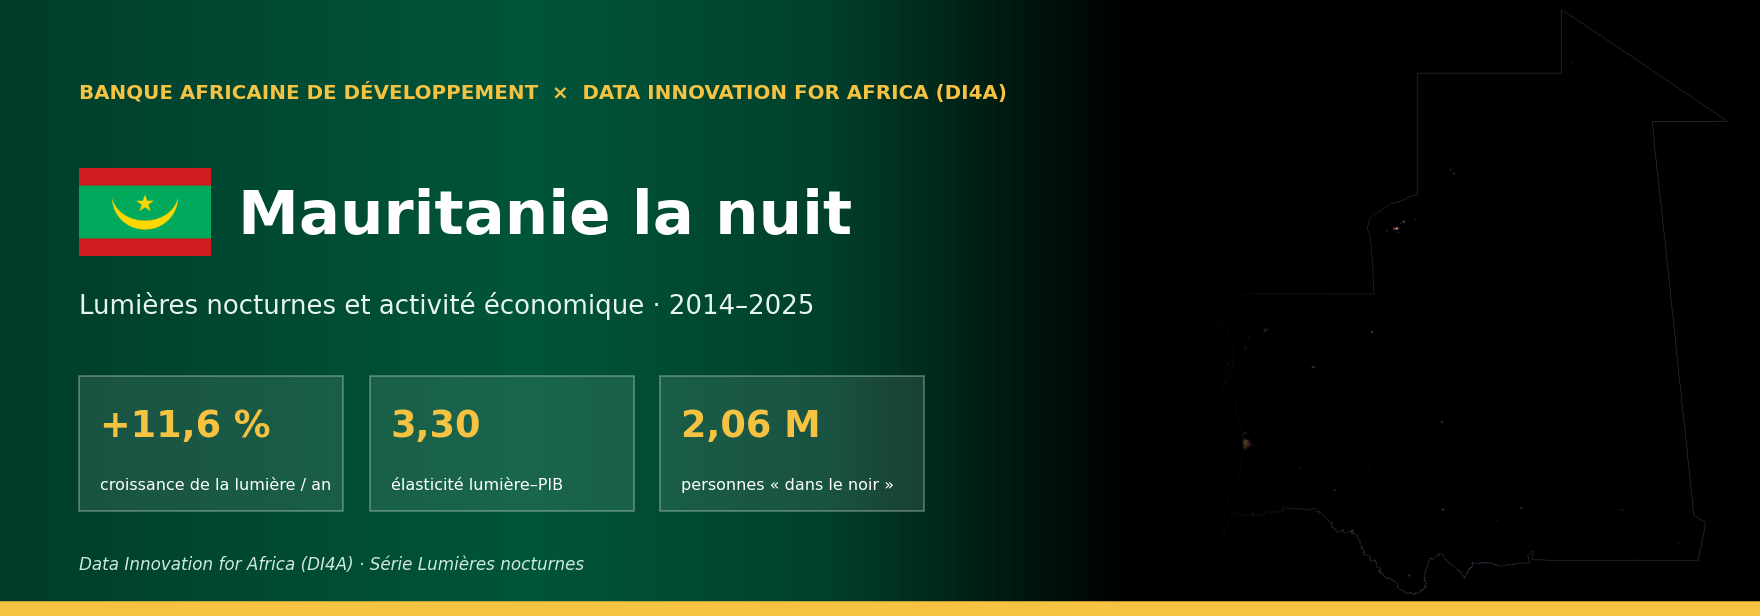
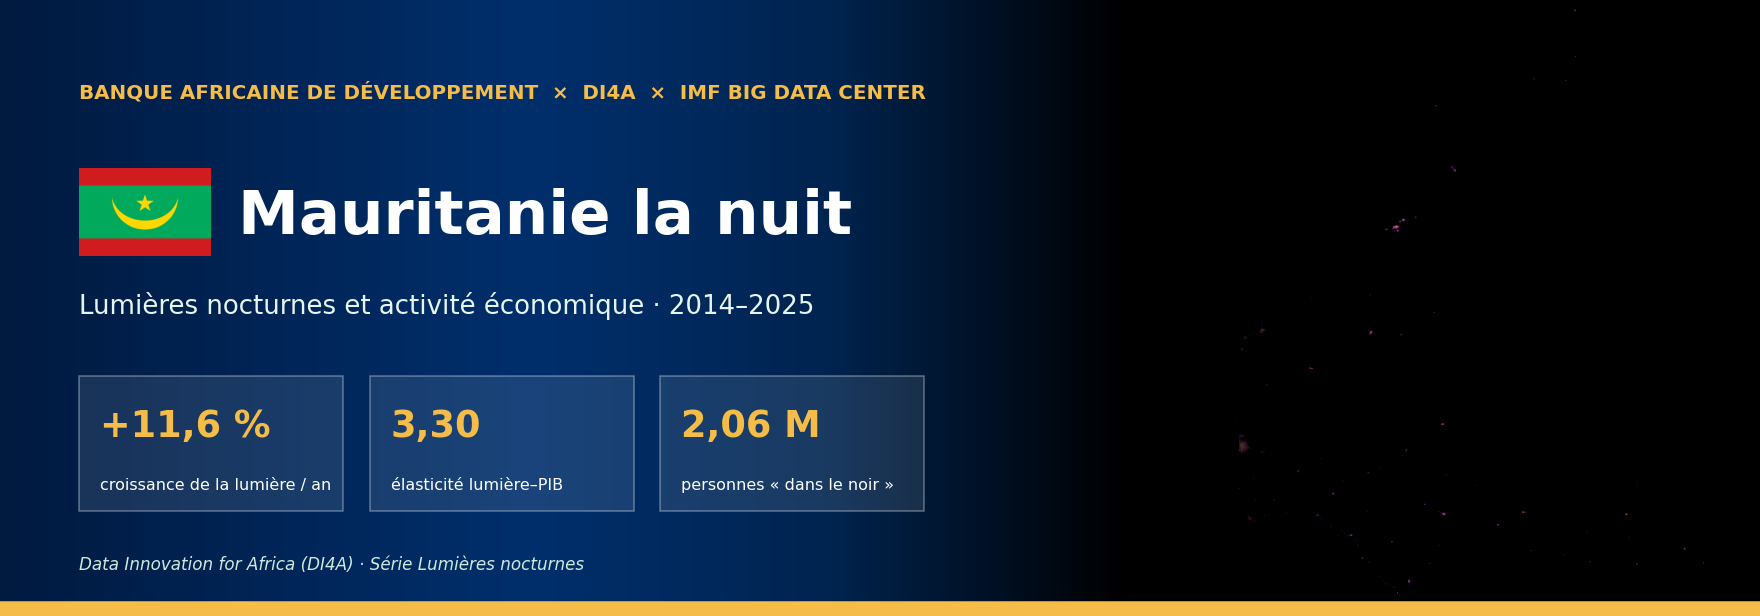
Repository landing page: illustrated README, images, licence

diff --git a/README.fr.md b/README.fr.md
@@ -3,9 +3,9 @@
 
 <p align="center"><a href="https://lamyakejji.github.io/ntl-dashboard/fr/"><img src="docs/img/banner.fr.png" alt="Mauritanie la nuit" width="100%"></a></p>
 
-<p align="center"><b><a href="https://lamyakejji.github.io/ntl-dashboard/fr/">🌍 Tableau de bord</a> &nbsp;·&nbsp; <a href="https://lamyakejji.github.io/ntl-dashboard/fr/#map">🗺 Carte</a> &nbsp;·&nbsp; <a href="https://lamyakejji.github.io/ntl-dashboard/fr/#time">📈 Évolution</a> &nbsp;·&nbsp; <a href="https://lamyakejji.github.io/ntl-dashboard/fr/#industry">🏭 Zones industrielles</a> &nbsp;·&nbsp; <a href="https://lamyakejji.github.io/ntl-dashboard/fr/#method">📐 Méthode</a> &nbsp;·&nbsp; <a href="https://lamyakejji.github.io/ntl-dashboard/fr/#data">⬇ Données</a> &nbsp;·&nbsp; <a href="README.md">🌐 English</a></b></p>
+<p align="center"><b><a href="https://lamyakejji.github.io/ntl-dashboard/fr/">🌍 Tableau de bord</a> &nbsp;·&nbsp; <a href="https://lamyakejji.github.io/ntl-dashboard/fr/#map">🗺 Carte</a> &nbsp;·&nbsp; <a href="https://lamyakejji.github.io/ntl-dashboard/fr/#time">📈 Évolution</a> &nbsp;·&nbsp; <a href="https://lamyakejji.github.io/ntl-dashboard/fr/#grid">⚡ Réseau électrique</a> &nbsp;·&nbsp; <a href="https://lamyakejji.github.io/ntl-dashboard/fr/#outages">🔌 Coupures</a> &nbsp;·&nbsp; <a href="https://lamyakejji.github.io/ntl-dashboard/fr/#method">📐 Méthode</a> &nbsp;·&nbsp; <a href="https://lamyakejji.github.io/ntl-dashboard/fr/#data">⬇ Données</a> &nbsp;·&nbsp; <a href="README.md">🌐 English</a></b></p>
 
-<p align="center"><a href="https://lamyakejji.github.io/ntl-dashboard/fr/"><img alt="Tableau de bord" src="https://img.shields.io/badge/Tableau_de_bord-en_ligne-00704A?style=for-the-badge&logo=githubpages&logoColor=white"></a> <a href="https://lamyakejji.github.io/ntl-dashboard/"><img alt="Dashboard" src="https://img.shields.io/badge/Dashboard-English-3F7FC7?style=for-the-badge"></a> <img alt="period" src="https://img.shields.io/badge/p%C3%A9riode-2014%E2%80%932025-D49A00?style=for-the-badge"> <img alt="data" src="https://img.shields.io/badge/donn%C3%A9es-VIIRS_%C2%B7_GHSL_%C2%B7_Sentinel-231F20?style=for-the-badge"> <img alt="Earth Engine" src="https://img.shields.io/badge/Google-Earth_Engine-4285F4?style=for-the-badge&logo=googleearth&logoColor=white"> <a href="LICENSE"><img alt="licence" src="https://img.shields.io/badge/licence-CC_BY_4.0_%C2%B7_MIT-5E6964?style=for-the-badge"></a></p>
+<p align="center"><a href="https://lamyakejji.github.io/ntl-dashboard/fr/"><img alt="Tableau de bord" src="https://img.shields.io/badge/Tableau_de_bord-en_ligne-004C97?style=for-the-badge&logo=githubpages&logoColor=white"></a> <a href="https://lamyakejji.github.io/ntl-dashboard/"><img alt="Dashboard" src="https://img.shields.io/badge/Dashboard-English-4B82AD?style=for-the-badge"></a> <img alt="period" src="https://img.shields.io/badge/p%C3%A9riode-2014%E2%80%932025-D49A00?style=for-the-badge"> <img alt="data" src="https://img.shields.io/badge/donn%C3%A9es-VIIRS_%C2%B7_GHSL_%C2%B7_Sentinel-231F20?style=for-the-badge"> <img alt="Earth Engine" src="https://img.shields.io/badge/Google-Earth_Engine-4285F4?style=for-the-badge&logo=googleearth&logoColor=white"> <a href="LICENSE"><img alt="licence" src="https://img.shields.io/badge/licence-CC_BY_4.0_%C2%B7_MIT-5E6964?style=for-the-badge"></a></p>
 
 > [!NOTE]
 > Ce dépôt héberge le **tableau de bord public** de l'activité économique de **Mauritanie** mesurée par les lumières nocturnes vues par satellite (2014–2025). Le site est bilingue (français / anglais), entièrement statique et régénéré à chaque exécution du notebook.
@@ -25,7 +25,7 @@
 </tr>
 </table>
 
-<p align="center"><a href="https://lamyakejji.github.io/ntl-dashboard/fr/"><img alt="Ouvrir le tableau de bord" src="https://img.shields.io/badge/%E2%9E%9C-Ouvrir_le_tableau_de_bord-00704A?style=for-the-badge"></a></p>
+<p align="center"><a href="https://lamyakejji.github.io/ntl-dashboard/fr/"><img alt="Ouvrir le tableau de bord" src="https://img.shields.io/badge/%E2%9E%9C-Ouvrir_le_tableau_de_bord-004C97?style=for-the-badge"></a></p>
 
 ## 💡 Messages clés
 
@@ -37,40 +37,30 @@
    <sub>🔴 faible · β = −0,009 [−0,023 ; 0,006], n = 52</sub>
 4. **Lien avec le PIB** — L'élasticité de la lumière au PIB réel est de 3,30 en niveaux (IC 95 % : 2,80 à 3,79, R² = 0,97, 12 années) et de 1,68 en taux de croissance (IC : −0,03 à 3,39). En pseudo temps réel (chaque année prédite à partir des seules années antérieures), la croissance de la lumière suit celle du PIB avec une corrélation de 0,33 (erreur absolue moyenne : 2,5 point(s) de croissance, pas mieux que la meilleure prévision naïve, rapport d'erreur 1,14).  
    <sub>🟠 moyenne · relation nette mais seulement 12 années</sub>
-5. **Chocs** — Le choc le plus marqué dans la série désaisonnalisée est « COVID-19 » : creux de -26,5 % (06/2020), retour au niveau d'avant-choc après 5 mois.  
-   <sub>🟠 moyenne · creux comparé à la variabilité mensuelle d'avant-choc</sub>
-6. **Inégalités et accès** — Le Gini de la lumière par habitant (ADM2) vaut 0,69 en 2025 (évolution non significative depuis 2014). Environ 2,06 million(s) de personnes vivent dans des zones habitées sans lumière détectable (41 % de la population habitée).  
+5. **Inégalités et accès** — Le Gini de la lumière par habitant (ADM2) vaut 0,69 en 2025 (évolution non significative depuis 2014). Environ 2,06 million(s) de personnes vivent dans des zones habitées sans lumière détectable (41 % de la population habitée).  
    <sub>🟠 moyenne · sensible au seuil de radiance (de 0,00 à 2,37 M selon le seuil) ; proxy d'éclairage extérieur, pas de raccordement</sub>
-7. **Zones industrielles** — 7 zones industrielles candidates sont détectées (3 pôles majeurs, 0 sites énergétiques), sur 5 km². Elles émettent 1 % de la lumière nationale ; la première est Nouadhibou (Dakhlet Nouadhibou). Leur lumière évolue de +6,3 % par an.  
-   <sub>🟠 moyenne · 100 % des zones confirmées par OpenStreetMap ; candidats à vérifier</sub>
+6. **Réseau électrique** — Le réseau électrique cartographié (OpenStreetMap) totalise 2 813 km de lignes. Entre 2014 et 2025, la lumière des villes à moins de 15 km d'une ligne de transport a varié de +204 %, contre +867 % au-delà de 50 km (descriptif : les lignes OSM ne sont pas datées).  
+   <sub>low · couverture OSM variable, lignes non datées</sub>
+7. **Bâti sans lumière** — En 2020, la part du bâti (GHSL) sans lumière détectable est la plus élevée à Barkéol 79%, Maghama 72%, Tintane 68% : l'expansion urbaine y devance le service électrique.  
+   <sub>medium · le halo lumineux sous-estime cette part dans les grandes villes</sub>
+8. **Effet des investissements** — Études d'événements (villes traitées vs jamais traitées) — Raccordement haute tension (2 villes) : -0,49 points log, p bootstrap = 0,20; Renforcement de la production (9 villes) : +0,08 points log, p bootstrap = 0,80.  
+   <sub>low · peu de villes traitées ; dates d'événements de confiance moyenne/faible</sub>
+9. **Coupures d'électricité** — À Nouakchott, 1,0 % des nuits claires de 2026 (jusqu'au 26/10) montrent une baisse de lumière à l'échelle de la ville compatible avec une coupure (contre 1,0 % en 2014). L'épisode le plus marqué débute le 11/06/2021 : lumière à 9 % de la normale, 96 % des pixels assombris.  
+   <sub>medium · un passage satellite par nuit (≈ 01 h 30) : coupures de jour invisibles ; 2/4 épisodes documentés observables détectés</sub>
+10. **Presse et coupures** — 246 articles de presse en ligne (FR, AR, EN) traitent de coupures à Nouakchott ; 63 % ont un ton négatif. Le pic de couverture est en 08/2026 (42 articles). Thèmes économiques les plus cités : Generation capacity & demand, Investment & finance, Heat & air conditioning, Water supply.  
+   <sub>low · couverture en ligne inégale dans le temps ; ton estimé par un modèle</sub>
 
-## 🛰 Le jour et la nuit
+## 🌃 Ce qui a changé
 
-<p align="center"><img src="docs/img/daynight.png" alt="Le jour et la nuit" width="100%"></p>
+<p align="center"><img src="docs/img/compare.png" alt="Ce qui a changé" width="85%"></p>
 
-Le principal pôle économique du pays (Ksar (Nouakchott)), le jour vu par Sentinel-2 et la nuit vu par VIIRS. Ce que le satellite voit la nuit — l'éclairage des villes, des ports, des usines et des routes — est l'indicateur indirect d'activité utilisé dans tout ce projet.
+Composites annuels VIIRS VNL V2 (torchères masquées), même échelle logarithmique : à gauche 2014, à droite 2025.
 
 ## 📈 La tendance
 
 <p align="center"><img src="docs/img/series.png" alt="series" width="100%"></p>
 
 La courbe désaisonnalisée retire les effets de saison (neige, végétation, fêtes) : c'est elle qu'il faut lire pour juger d'une hausse ou d'une baisse.
-
-## 🏭 Zones industrielles
-
-<p align="center"><img src="docs/img/industry.png" alt="industry" width="80%"></p>
-
-Les sites industriels brillent la nuit comme les villes, mais leurs bâtiments sont surtout non résidentiels, peu de gens y habitent et ils émettent du NO₂. En combinant VIIRS, GHSL (bâti non résidentiel, population) et Sentinel-5P, **7 zones candidates** sont détectées ; elles émettent **1 %** de la lumière nationale. 100 % d'entre elles contiennent une zone industrielle répertoriée dans OpenStreetMap (± 1 km).
-
-| # | Zone | Type | Surface | Part de la lumière nationale | Croissance / an |
-|---:|---|---|---:|---:|---:|
-| 1 | Nouadhibou (Dakhlet Nouadhibou) | Pôle industriel majeur | 1,8 km² | 0,3 % | +4,3 % |
-| 2 | Zoueratt (Tiris Zemmour) | Pôle industriel majeur | 0,8 km² | 0,1 % | +0,1 % |
-| 3 | Ouad Naga (Trarza) | Pôle industriel majeur | 0,6 km² | 0,1 % | +1,7 % |
-| 4 | El Mina (Nouakchott) | Zone industrielle / logistique | 0,4 km² | 0,1 % | +8,9 % |
-| 5 | El Mina (Nouakchott) | Zone industrielle / logistique | 0,4 km² | 0,1 % | +12,3 % |
-| 6 | El Mina (Nouakchott) | Zone industrielle / logistique | 0,6 km² | 0,1 % | +6,9 % |
-| 7 | El Mina (Nouakchott) | Zone industrielle / logistique | 0,6 km² | 0,1 % | +7,5 % |
 
 ## 🧭 Ce que contient le tableau de bord
 
@@ -80,9 +70,9 @@ Les sites industriels brillent la nuit comme les villes, mais leurs bâtiments s
 | [**Carte**](https://lamyakejji.github.io/ntl-dashboard/fr/#map) | lumière année par année, variation, statistiques régionales au survol |
 | [**Évolution**](https://lamyakejji.github.io/ntl-dashboard/fr/#time) | série mensuelle observée et désaisonnalisée, glissement annuel, série longue 1992 → |
 | [**Régions**](https://lamyakejji.github.io/ntl-dashboard/fr/#regions) | croissance par région et district, classes, concentration et convergence |
-| [**Chocs**](https://lamyakejji.github.io/ntl-dashboard/fr/#shocks) | COVID-19 et autres événements : creux, reprise, test placebo, indice quotidien |
+| [**Réseau électrique**](https://lamyakejji.github.io/ntl-dashboard/fr/#grid) | lignes OpenStreetMap, événements datés et sourcés, distance au réseau, bâti dans le noir, études d'événements |
 | [**Inégalités**](https://lamyakejji.github.io/ntl-dashboard/fr/#inequality) | Gini, courbes de Lorenz, Theil, population « dans le noir » |
-| [**Zones industrielles**](https://lamyakejji.github.io/ntl-dashboard/fr/#industry) | zones candidates, score, tendance, validation OpenStreetMap |
+| [**Coupures d'électricité**](https://lamyakejji.github.io/ntl-dashboard/fr/#outages) | coupures nuit après nuit (Black Marble quotidien), épisodes, presse : tonalité et vocabulaire économique |
 | [**Méthode & limites**](https://lamyakejji.github.io/ntl-dashboard/fr/#method) | sources, paramètres, hypothèses et biais connus |
 | [**Données**](https://lamyakejji.github.io/ntl-dashboard/fr/#data) | toutes les tables téléchargeables, manifeste de reproductibilité |
 
@@ -95,14 +85,14 @@ flowchart LR
     A["🛰 VIIRS DNB mensuel<br/>et annuel (VNL V2)"] --> B["🧹 Nettoyage<br/>nuages · torchères · fond"]
     B --> C["🗺 Statistiques zonales<br/>pays · régions · districts"]
     P["👥 GHSL population<br/>🏭 bâti non résidentiel<br/>💨 Sentinel-5P NO₂"] --> C
-    C --> D["📈 Séries, tendances,<br/>chocs, ruptures"]
+    C --> D["📈 Séries, tendances,<br/>ruptures"]
     C --> E["⚖ Inégalités,<br/>population dans le noir"]
-    C --> F["🏭 Zones industrielles"]
+    R["⚡ Réseau OSM<br/>🛰 Black Marble quotidien<br/>📰 presse"] --> F["🔌 Réseau et coupures"]
     W["🏦 Banque mondiale<br/>PIB · accès électricité"] --> G["💹 Élasticité<br/>lumière–PIB"]
     C --> G
     D & E & F & G --> H["🌍 Tableau de bord bilingue<br/>GitHub Pages"]
-    classDef default fill:#E8F5EF,stroke:#00704A,color:#231F20;
-    class H fill:#00704A,color:#fff,stroke:#F5C242
+    classDef default fill:#EAF2FB,stroke:#004C97,color:#231F20;
+    class H fill:#004C97,color:#fff,stroke:#F5BD47
 ```
 
 <details>
@@ -114,9 +104,9 @@ flowchart LR
 | **📈 Dynamique temporelle** | décomposition STL, glissement annuel, tendance de Theil–Sen et test de Mann–Kendall, anomalies, ruptures |
 | **🗺 Croissance régionale** | classes Croissance / Stagnation / Déclin (correction de Benjamini–Hochberg), HHI, convergence β et σ |
 | **💹 Lumières et PIB** | élasticité (erreurs HAC, bootstrap), prévision immédiate jugée face à deux prévisions naïves, PIB régional expérimental |
-| **⚡ Chocs** | creux, écart à la tendance, mois de reprise, test placebo, indice quotidien Black Marble |
+| **⚡ Réseau électrique** | lignes OSM, événements datés, distance au réseau, bâti dans le noir, études d'événements (bootstrap sauvage) |
 | **⚖ Inégalités et accès** | Gini, Theil (entre / intra-régions), ratio urbain / rural, population dans le noir sur trois seuils |
-| **🏭 Zones industrielles** | score à quatre signaux (lumière, bâti non résidentiel, faible densité, NO₂), validation OpenStreetMap |
+| **🔌 Coupures** | Black Marble quotidien : % de la normale, pixels assombris, épisodes ponctuels / prolongés, presse et vocabulaire économique |
 
 </details>
 
@@ -140,9 +130,9 @@ flowchart LR
 | [`annual_units.csv`](https://lamyakejji.github.io/ntl-dashboard/fr/data/MRT/annual_units.csv) | une ligne par unité et par année : lumière, population, lumière/hab., population dans le noir |
 | [`regions.csv`](https://lamyakejji.github.io/ntl-dashboard/fr/data/MRT/regions.csv) | indicateurs de la dernière année par région et district (carte, classement) |
 | [`gdp.json`](https://lamyakejji.github.io/ntl-dashboard/fr/data/MRT/gdp.json) | élasticité lumière–PIB, prévision immédiate, PIB régional expérimental |
-| [`shocks.json`](https://lamyakejji.github.io/ntl-dashboard/fr/data/MRT/shocks.json) | événements, creux, reprise, ruptures, anomalies, indices quotidiens |
+| [`grid.json`](https://lamyakejji.github.io/ntl-dashboard/fr/data/MRT/grid.json) | réseau : événements datés, villes, distance au réseau, études d'événements |
 | [`inequality.json`](https://lamyakejji.github.io/ntl-dashboard/fr/data/MRT/inequality.json) | Gini, Lorenz, Theil, population dans le noir et sensibilité aux seuils |
-| [`industrial.geojson`](https://lamyakejji.github.io/ntl-dashboard/fr/data/MRT/industrial.geojson) | zones industrielles candidates (géométries et indicateurs) |
+| [`outages.json`](https://lamyakejji.github.io/ntl-dashboard/fr/data/MRT/outages.json) | indice nocturne de coupures, épisodes, taux annuels et mensuels ; news.json : presse |
 | [`meta.json`](https://lamyakejji.github.io/ntl-dashboard/fr/data/MRT/meta.json) | paramètres, versions des logiciels, disponibilité des données : la reproductibilité |
 
 📁 [`gh-pages/data/MRT/`](https://github.com/lamyakejji/ntl-dashboard/tree/gh-pages/data/MRT)
@@ -170,7 +160,7 @@ Le site est produit par le notebook **Lumières nocturnes et activité économiq
 
 ## 🤝 Crédits et citation
 
-Réalisé par la **Banque africaine de développement** dans le cadre de **Data Innovation for Africa (DI4A)**. Les estimations sont expérimentales et ne constituent pas des statistiques officielles.
+Réalisé par la **Banque africaine de développement** dans le cadre de **Data Innovation for Africa (DI4A)**, avec l'**IMF Big Data Center**. *Avertissement : les opinions exprimées sont celles des auteurs et ne reflètent pas nécessairement celles du FMI, de son Conseil d'administration ou de sa direction.* Les estimations sont expérimentales et ne constituent pas des statistiques officielles.
 
 **Licence** — contenus CC BY 4.0, code MIT (voir `LICENSE`). Toute réutilisation doit mentionner : **Source : Banque africaine de développement – Data Innovation for Africa (AfDB-DI4A)**.
 
@@ -180,5 +170,5 @@ Réalisé par la **Banque africaine de développement** dans le cadre de **Data 
 
 ---
 
-<p align="center"><sub>© 2026 AfDB-DI4A · Toute réutilisation doit mentionner « Source : AfDB-DI4A »</sub></p>
-<p align="center"><sub>Dernière mise à jour : 2026-11-01 · <a href="#top">↑</a></sub></p>
+<p align="center"><sub>© 2026 AfDB-DI4A · avec l'IMF Big Data Center · Toute réutilisation doit mentionner « Source : AfDB-DI4A » · Les opinions exprimées ne reflètent pas nécessairement celles du FMI</sub></p>
+<p align="center"><sub>Dernière mise à jour : 2026-11-02 · <a href="#top">↑</a></sub></p>

diff --git a/README.md b/README.md
@@ -3,9 +3,9 @@
 
 <p align="center"><a href="https://lamyakejji.github.io/ntl-dashboard/"><img src="docs/img/banner.png" alt="Mauritania at night" width="100%"></a></p>
 
-<p align="center"><b><a href="https://lamyakejji.github.io/ntl-dashboard/">🌍 Dashboard</a> &nbsp;·&nbsp; <a href="https://lamyakejji.github.io/ntl-dashboard/#map">🗺 Map</a> &nbsp;·&nbsp; <a href="https://lamyakejji.github.io/ntl-dashboard/#time">📈 Trends</a> &nbsp;·&nbsp; <a href="https://lamyakejji.github.io/ntl-dashboard/#industry">🏭 Industrial zones</a> &nbsp;·&nbsp; <a href="https://lamyakejji.github.io/ntl-dashboard/#method">📐 Method</a> &nbsp;·&nbsp; <a href="https://lamyakejji.github.io/ntl-dashboard/#data">⬇ Data</a> &nbsp;·&nbsp; <a href="README.fr.md">🌐 Français</a></b></p>
+<p align="center"><b><a href="https://lamyakejji.github.io/ntl-dashboard/">🌍 Dashboard</a> &nbsp;·&nbsp; <a href="https://lamyakejji.github.io/ntl-dashboard/#map">🗺 Map</a> &nbsp;·&nbsp; <a href="https://lamyakejji.github.io/ntl-dashboard/#time">📈 Trends</a> &nbsp;·&nbsp; <a href="https://lamyakejji.github.io/ntl-dashboard/#grid">⚡ Electricity grid</a> &nbsp;·&nbsp; <a href="https://lamyakejji.github.io/ntl-dashboard/#outages">🔌 Power outages</a> &nbsp;·&nbsp; <a href="https://lamyakejji.github.io/ntl-dashboard/#method">📐 Method</a> &nbsp;·&nbsp; <a href="https://lamyakejji.github.io/ntl-dashboard/#data">⬇ Data</a> &nbsp;·&nbsp; <a href="README.fr.md">🌐 Français</a></b></p>
 
-<p align="center"><a href="https://lamyakejji.github.io/ntl-dashboard/"><img alt="Dashboard" src="https://img.shields.io/badge/Dashboard-live-00704A?style=for-the-badge&logo=githubpages&logoColor=white"></a> <a href="https://lamyakejji.github.io/ntl-dashboard/fr/"><img alt="Tableau de bord" src="https://img.shields.io/badge/Tableau_de_bord-fran%C3%A7ais-3F7FC7?style=for-the-badge"></a> <img alt="period" src="https://img.shields.io/badge/period-2014%E2%80%932025-D49A00?style=for-the-badge"> <img alt="data" src="https://img.shields.io/badge/data-VIIRS_%C2%B7_GHSL_%C2%B7_Sentinel-231F20?style=for-the-badge"> <img alt="Earth Engine" src="https://img.shields.io/badge/Google-Earth_Engine-4285F4?style=for-the-badge&logo=googleearth&logoColor=white"> <a href="LICENSE"><img alt="licence" src="https://img.shields.io/badge/licence-CC_BY_4.0_%C2%B7_MIT-5E6964?style=for-the-badge"></a></p>
+<p align="center"><a href="https://lamyakejji.github.io/ntl-dashboard/"><img alt="Dashboard" src="https://img.shields.io/badge/Dashboard-live-004C97?style=for-the-badge&logo=githubpages&logoColor=white"></a> <a href="https://lamyakejji.github.io/ntl-dashboard/fr/"><img alt="Tableau de bord" src="https://img.shields.io/badge/Tableau_de_bord-fran%C3%A7ais-4B82AD?style=for-the-badge"></a> <img alt="period" src="https://img.shields.io/badge/period-2014%E2%80%932025-D49A00?style=for-the-badge"> <img alt="data" src="https://img.shields.io/badge/data-VIIRS_%C2%B7_GHSL_%C2%B7_Sentinel-231F20?style=for-the-badge"> <img alt="Earth Engine" src="https://img.shields.io/badge/Google-Earth_Engine-4285F4?style=for-the-badge&logo=googleearth&logoColor=white"> <a href="LICENSE"><img alt="licence" src="https://img.shields.io/badge/licence-CC_BY_4.0_%C2%B7_MIT-5E6964?style=for-the-badge"></a></p>
 
 > [!NOTE]
 > This repository hosts the **public dashboard** of economic activity in **Mauritania** measured with night-time lights seen from space (2014–2025). The site is bilingual (English / French), fully static and regenerated each time the notebook runs.
@@ -25,7 +25,7 @@
 </tr>
 </table>
 
-<p align="center"><a href="https://lamyakejji.github.io/ntl-dashboard/"><img alt="Open the dashboard" src="https://img.shields.io/badge/%E2%9E%9C-Open_the_dashboard-00704A?style=for-the-badge"></a></p>
+<p align="center"><a href="https://lamyakejji.github.io/ntl-dashboard/"><img alt="Open the dashboard" src="https://img.shields.io/badge/%E2%9E%9C-Open_the_dashboard-004C97?style=for-the-badge"></a></p>
 
 ## 💡 Key messages
 
@@ -37,40 +37,30 @@
    <sub>🔴 low · β = −0.009 [−0.023; 0.006], n = 52</sub>
 4. **Link with GDP** — The elasticity of light with respect to real GDP is 3.30 in levels (95% CI: 2.80 to 3.79, R² = 0.97, 12 years) and 1.68 in growth rates (CI: −0.03 to 3.39). In pseudo-real time (each year predicted from earlier years only), light growth tracks GDP growth with a correlation of 0.33 (mean absolute error: 2.5 percentage points of growth, no better than the best naive forecast, error ratio 1.14).  
    <sub>🟠 medium · clear relationship but only 12 years</sub>
-5. **Shocks** — The most pronounced shock in the seasonally adjusted series is “COVID-19”: trough of -26.5% (06/2020), return to the pre-shock level after 5 months.  
-   <sub>🟠 medium · trough compared with pre-shock month-to-month variability</sub>
-6. **Inequality and access** — The Gini coefficient of light per capita (ADM2) is 0.69 in 2025 (no significant change since 2014). About 2.06 million people live in inhabited areas with no detectable light (41% of the inhabited population).  
+5. **Inequality and access** — The Gini coefficient of light per capita (ADM2) is 0.69 in 2025 (no significant change since 2014). About 2.06 million people live in inhabited areas with no detectable light (41% of the inhabited population).  
    <sub>🟠 medium · sensitive to the radiance threshold (from 0.00 to 2.37 M depending on the threshold); a proxy for outdoor lighting, not for grid connection</sub>
-7. **Industrial zones** — 7 candidate industrial zones are detected (3 major hubs, 0 energy sites), covering 5 km². They emit 1% of national light; the largest is Nouadhibou (Dakhlet Nouadhibou). Their light changes by +6.3% per year.  
-   <sub>🟠 medium · 100% of zones confirmed by OpenStreetMap; candidates to be checked</sub>
+6. **Electricity grid** — The mapped grid (OpenStreetMap) totals 2,813 km of line. Between 2014 and 2025, light in towns within 15 km of a transmission line changed by +204%, against +867% beyond 50 km (descriptive: OSM lines carry no dates).  
+   <sub>🔴 low · OSM coverage varies, lines are undated</sub>
+7. **Built-up land left dark** — In 2020, the share of built-up land (GHSL) with no detectable light is highest in Barkéol 79%, Maghama 72%, Tintane 68%: urban expansion runs ahead of electricity service there.  
+   <sub>🟠 medium · blooming understates this share in large cities</sub>
+8. **Effect of grid investments** — Event studies (treated vs never-treated towns) — HV connection (2 towns): -0.49 log points, wild-bootstrap p = 0.20; Generation upgrade (9 towns): +0.08 log points, wild-bootstrap p = 0.80.  
+   <sub>🔴 low · few treated towns; event dates of medium/low confidence</sub>
+9. **Power outages** — In Nouakchott, 1.0% of clear nights in 2026 (to 26 Oct) show a citywide drop in light consistent with a power outage (against 1.0% in 2014). The deepest episode starts on 11 Jun 2021: light at 9% of normal, 96% of pixels dimmed.  
+   <sub>🟠 medium · one satellite pass per night (≈01:30): daytime cuts are invisible; 2/4 observable documented episodes detected</sub>
+10. **News on outages** — 246 online news articles (FR, AR, EN) cover power cuts in Nouakchott; 63% are negative in tone. Coverage peaks in Aug 2026 (42 articles). Most-cited economic themes: Generation capacity & demand, Investment & finance, Heat & air conditioning, Water supply.  
+   <sub>🔴 low · uneven online coverage over time; tone estimated by a model</sub>
 
-## 🛰 Day and night
+## 🌃 What changed
 
-<p align="center"><img src="docs/img/daynight.png" alt="Day and night" width="100%"></p>
+<p align="center"><img src="docs/img/compare.png" alt="What changed" width="85%"></p>
 
-The country's main economic pole (Ksar (Nouakchott)), by day as seen by Sentinel-2 and by night as seen by VIIRS. What the satellite sees at night — the lighting of cities, ports, factories and roads — is the proxy of activity used throughout this project.
+VIIRS VNL V2 annual composites (gas flares masked), same logarithmic scale: left 2014, right 2025.
 
 ## 📈 The trend
 
 <p align="center"><img src="docs/img/series.png" alt="series" width="100%"></p>
 
 The seasonally adjusted curve removes seasonal effects (snow, vegetation, festivities): read it to judge a rise or a fall.
-
-## 🏭 Industrial zones
-
-<p align="center"><img src="docs/img/industry.png" alt="industry" width="80%"></p>
-
-Industrial sites shine at night like towns, but their buildings are mostly non-residential, few people live there and they emit NO₂. Combining VIIRS, GHSL (non-residential built-up, population) and Sentinel-5P, **7 candidate zones** are detected; they emit **1%** of national light. 100% of them contain an industrial area mapped in OpenStreetMap (± 1 km).
-
-| # | Zone | Type | Area | Share of national light | Growth / yr |
-|---:|---|---|---:|---:|---:|
-| 1 | Nouadhibou (Dakhlet Nouadhibou) | Major industrial hub | 1.8 km² | 0.3% | +4.3% |
-| 2 | Zoueratt (Tiris Zemmour) | Major industrial hub | 0.8 km² | 0.1% | +0.1% |
-| 3 | Ouad Naga (Trarza) | Major industrial hub | 0.6 km² | 0.1% | +1.7% |
-| 4 | El Mina (Nouakchott) | Industrial / logistics zone | 0.4 km² | 0.1% | +8.9% |
-| 5 | El Mina (Nouakchott) | Industrial / logistics zone | 0.4 km² | 0.1% | +12.3% |
-| 6 | El Mina (Nouakchott) | Industrial / logistics zone | 0.6 km² | 0.1% | +6.9% |
-| 7 | El Mina (Nouakchott) | Industrial / logistics zone | 0.6 km² | 0.1% | +7.5% |
 
 ## 🧭 What the dashboard contains
 
@@ -80,9 +70,9 @@ Industrial sites shine at night like towns, but their buildings are mostly non-r
 | [**Map**](https://lamyakejji.github.io/ntl-dashboard/#map) | light year by year, change, regional statistics on hover |
 | [**Trends**](https://lamyakejji.github.io/ntl-dashboard/#time) | observed and seasonally adjusted monthly series, year-on-year change, long series 1992 → |
 | [**Regions**](https://lamyakejji.github.io/ntl-dashboard/#regions) | growth by region and district, classes, concentration and convergence |
-| [**Shocks**](https://lamyakejji.github.io/ntl-dashboard/#shocks) | COVID-19 and other events: trough, recovery, placebo test, daily index |
+| [**Electricity grid**](https://lamyakejji.github.io/ntl-dashboard/#grid) | OpenStreetMap lines, dated and sourced events, distance to the grid, built-up land left dark, event studies |
 | [**Inequality**](https://lamyakejji.github.io/ntl-dashboard/#inequality) | Gini, Lorenz curves, Theil, people “in the dark” |
-| [**Industrial zones**](https://lamyakejji.github.io/ntl-dashboard/#industry) | candidate zones, score, trend, OpenStreetMap validation |
+| [**Power outages**](https://lamyakejji.github.io/ntl-dashboard/#outages) | night-by-night outages (daily Black Marble), episodes, news: tone and economic vocabulary |
 | [**Method & limitations**](https://lamyakejji.github.io/ntl-dashboard/#method) | sources, parameters, assumptions and known biases |
 | [**Data**](https://lamyakejji.github.io/ntl-dashboard/#data) | every downloadable table, reproducibility manifest |
 
@@ -95,14 +85,14 @@ flowchart LR
     A["🛰 VIIRS DNB monthly<br/>and annual (VNL V2)"] --> B["🧹 Cleaning<br/>clouds · gas flares · background"]
     B --> C["🗺 Zonal statistics<br/>country · regions · districts"]
     P["👥 GHSL population<br/>🏭 non-residential built-up<br/>💨 Sentinel-5P NO₂"] --> C
-    C --> D["📈 Series, trends,<br/>shocks, breaks"]
+    C --> D["📈 Series, trends,<br/>breaks"]
     C --> E["⚖ Inequality,<br/>people in the dark"]
-    C --> F["🏭 Industrial zones"]
+    R["⚡ OSM grid<br/>🛰 daily Black Marble<br/>📰 news"] --> F["🔌 Grid and outages"]
     W["🏦 World Bank<br/>GDP · electricity access"] --> G["💹 Light–GDP<br/>elasticity"]
     C --> G
     D & E & F & G --> H["🌍 Bilingual dashboard<br/>GitHub Pages"]
-    classDef default fill:#E8F5EF,stroke:#00704A,color:#231F20;
-    class H fill:#00704A,color:#fff,stroke:#F5C242
+    classDef default fill:#EAF2FB,stroke:#004C97,color:#231F20;
+    class H fill:#004C97,color:#fff,stroke:#F5BD47
 ```
 
 <details>
@@ -114,9 +104,9 @@ flowchart LR
 | **📈 Time dynamics** | STL decomposition, year-on-year change, Theil–Sen trend with Mann–Kendall test, anomalies, breaks |
 | **🗺 Regional growth** | Growth / Stagnation / Decline classes (Benjamini–Hochberg correction), HHI, β and σ convergence |
 | **💹 Lights and GDP** | elasticity (HAC errors, bootstrap), nowcast judged against two naive forecasts, experimental regional GDP |
-| **⚡ Shocks** | trough, gap vs trend, months to recovery, placebo test, Black Marble daily index |
+| **⚡ Electricity grid** | OSM lines, dated events, distance to the grid, built-up land left dark, event studies (wild bootstrap) |
 | **⚖ Inequality and access** | Gini, Theil (between / within regions), urban / rural ratio, people in the dark at three thresholds |
-| **🏭 Industrial zones** | four-signal score (light, non-residential built-up, low density, NO₂), OpenStreetMap validation |
+| **🔌 Power outages** | daily Black Marble: % of normal, dimmed pixels, sporadic / prolonged episodes, news tone and economic vocabulary |
 
 </details>
 
@@ -140,9 +130,9 @@ flowchart LR
 | [`annual_units.csv`](https://lamyakejji.github.io/ntl-dashboard/data/MRT/annual_units.csv) | one row per unit and year: light, population, light per capita, people in the dark |
 | [`regions.csv`](https://lamyakejji.github.io/ntl-dashboard/data/MRT/regions.csv) | latest-year indicators by region and district (map, ranking) |
 | [`gdp.json`](https://lamyakejji.github.io/ntl-dashboard/data/MRT/gdp.json) | light–GDP elasticity, nowcast, experimental regional GDP |
-| [`shocks.json`](https://lamyakejji.github.io/ntl-dashboard/data/MRT/shocks.json) | events, troughs, recovery, breaks, anomalies, daily indices |
+| [`grid.json`](https://lamyakejji.github.io/ntl-dashboard/data/MRT/grid.json) | grid: dated events, towns, distance to the grid, event studies |
 | [`inequality.json`](https://lamyakejji.github.io/ntl-dashboard/data/MRT/inequality.json) | Gini, Lorenz, Theil, people in the dark and threshold sensitivity |
-| [`industrial.geojson`](https://lamyakejji.github.io/ntl-dashboard/data/MRT/industrial.geojson) | candidate industrial zones (geometries and indicators) |
+| [`outages.json`](https://lamyakejji.github.io/ntl-dashboard/data/MRT/outages.json) | nightly outage index, episodes, yearly and monthly rates; news.json: news coverage |
 | [`meta.json`](https://lamyakejji.github.io/ntl-dashboard/data/MRT/meta.json) | parameters, software versions, dataset availability: reproducibility |
 
 📁 [`gh-pages/data/MRT/`](https://github.com/lamyakejji/ntl-dashboard/tree/gh-pages/data/MRT)
@@ -170,7 +160,7 @@ The site is produced by the **Night-time lights and economic activity** notebook
 
 ## 🤝 Credits and citation
 
-Produced by the **African Development Bank** as part of **Data Innovation for Africa (DI4A)**. Estimates are experimental and are not official statistics.
+Produced by the **African Development Bank** as part of **Data Innovation for Africa (DI4A)**, with the **IMF Big Data Center**. *Disclaimer: the views expressed are those of the authors and do not necessarily represent the views of the IMF, its Executive Board, or IMF management.* Estimates are experimental and are not official statistics.
 
 **Licence** — content CC BY 4.0, code MIT (see `LICENSE`). Any reuse must cite: **Source: African Development Bank – Data Innovation for Africa (AfDB-DI4A)**.
 
@@ -180,5 +170,5 @@ Produced by the **African Development Bank** as part of **Data Innovation for Af
 
 ---
 
-<p align="center"><sub>© 2026 AfDB-DI4A · Any reuse must cite “Source: AfDB-DI4A”</sub></p>
-<p align="center"><sub>Last update: 2026-11-01 · <a href="#top">↑</a></sub></p>
+<p align="center"><sub>© 2026 AfDB-DI4A · with the IMF Big Data Center · Any reuse must cite “Source: AfDB-DI4A” · The views expressed do not necessarily represent the views of the IMF</sub></p>
+<p align="center"><sub>Last update: 2026-11-02 · <a href="#top">↑</a></sub></p>
